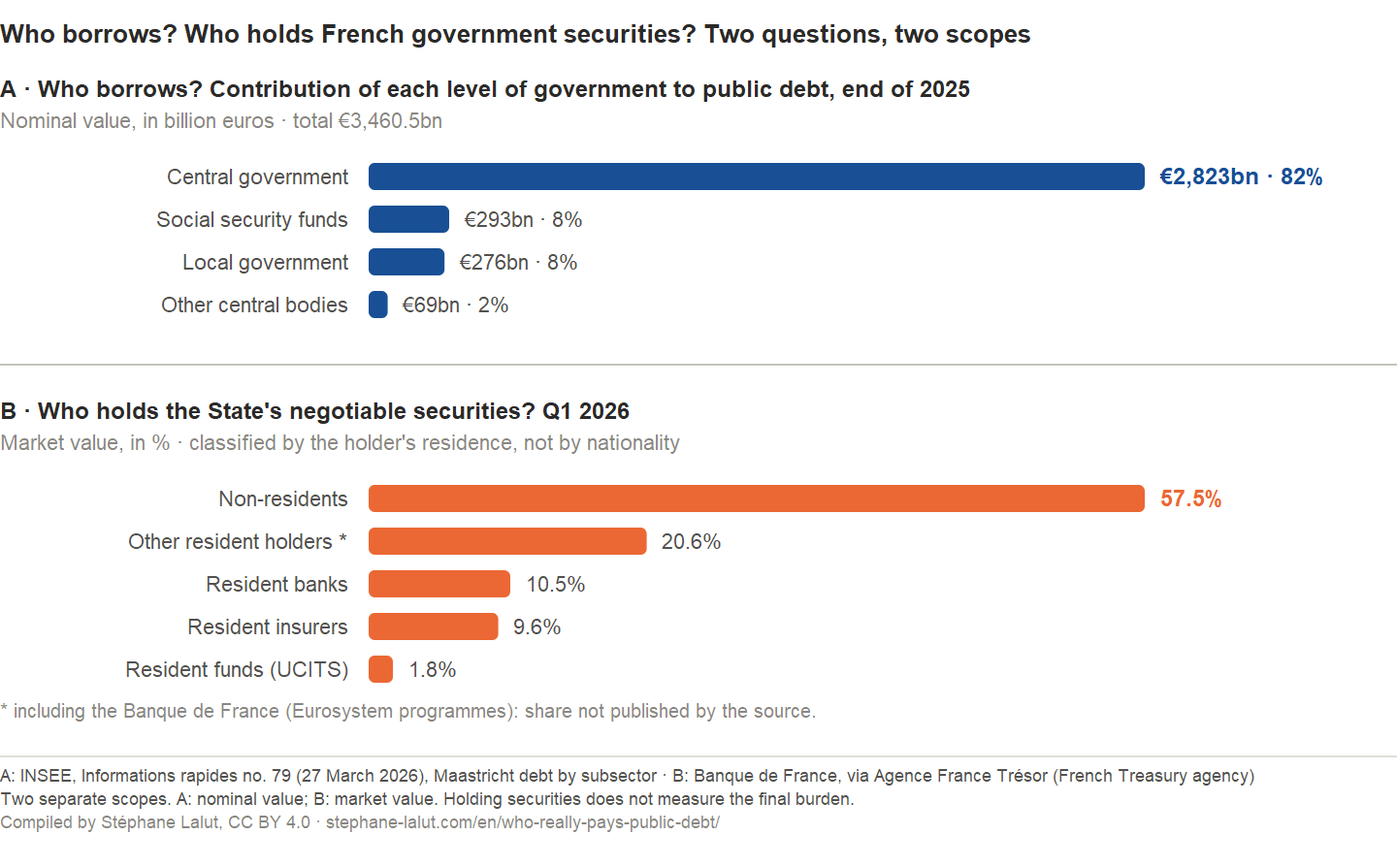
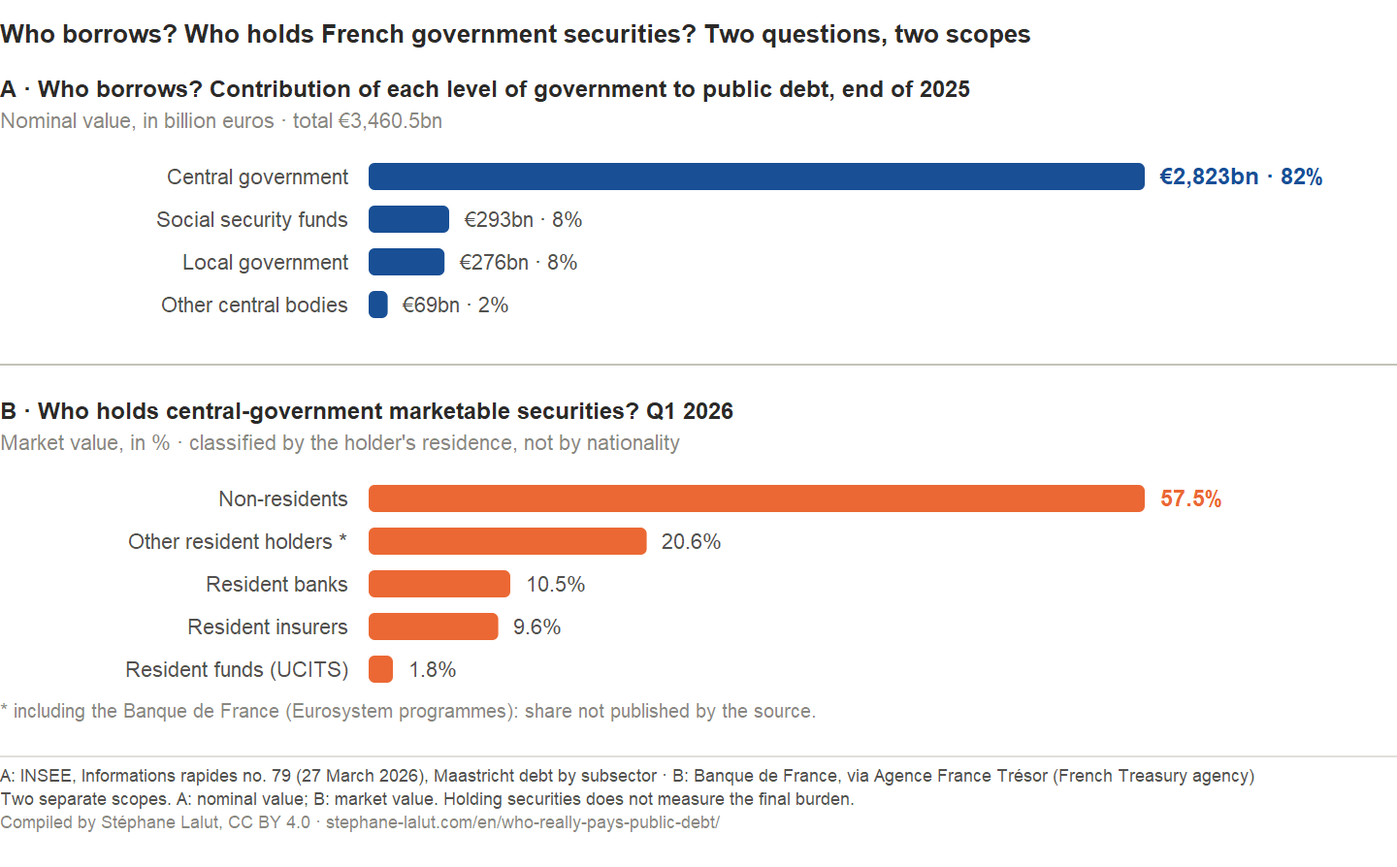
fix(dette-en): lexique anglais Wolf-07 sur qui paie et generations futures -- central-government marketable debt/securities (emetteur) et the government (acteur) au lieu de State negotiable / the State ; figure qui-paie-detention-en regeneree, donnees inchangees

Changed region(s): [[0.125, 0.453, 0.5312, 0.4832]]

diff --git a/scripts/generer_figures_qui_paie.py b/scripts/generer_figures_qui_paie.py
@@ -583,7 +583,7 @@ def svg_detention(r: dict, lang: str = "fr") -> tuple[str, int]:
                  % (y, W, y, AXIS))
     y += 28
     corps.append(txt(0, y, S("B · Qui détient les titres négociables de l'État ? 1er trimestre 2026",
-                             "B · Who holds the State's negotiable securities? Q1 2026"),
+                             "B · Who holds central-government marketable securities? Q1 2026"),
                      TY_ANNOT, INK, weight="600"))
     corps.append(txt(0, y + 16, S("Valeur de marché, en % · classement par résidence du détenteur, "
                                   "non par nationalité",
@@ -632,7 +632,7 @@ def svg_detention(r: dict, lang: str = "fr") -> tuple[str, int]:
                 "value: "
                 + "; ".join("%s €%sbn" % (libelle_en(SS_EN, s["libelle"]), en(s["mdeur"]))
                             for s in ss)
-                + ", out of €%sbn, %s. B, at market value, holders of the State's negotiable "
+                + ", out of €%sbn, %s. B, at market value, holders of central-government marketable "
                   "securities in Q1 2026: " % (en(total, 1), periode_en(r["periode_a"]))
                 + "; ".join("%s %s%%" % (noms[d["libelle"]].rstrip(" *"), en(d["pct"], 1))
                             for d in det) + ".")
@@ -1443,7 +1443,7 @@ def main() -> int:
     cartes["en"] = [
         {"id": "detention", "fichier": "qui-paie-detention-en",
          "titre": "Who borrows? Who holds French government securities?",
-         "montre": "The levels of government that borrow, then the holders of the State's "
+         "montre": "The levels of government that borrow, then the holders of central-government "
                    "securities: two separate scopes, with no proportional link.",
          "source": "INSEE, IR no. 79 (27 March 2026), %s  ·  Banque de France via Agence "
                    "France Trésor (French Treasury agency), Q1 2026" % periode_en(r["periode_a"]),

diff --git a/content/qui-paie-la-dette-publique/_index.en.md b/content/qui-paie-la-dette-publique/_index.en.md
@@ -4,7 +4,7 @@ url: /en/who-really-pays-public-debt/
 description: "Who pays for public debt? Holding it is not paying for it: taxes, spending and inflation do not spread the adjustment across the same groups. Official French data."
 chapo: "The same €{qp.exp_effort} billion adjustment does not fall on the same households depending on the decision taken: through education, it weighs mostly on the least well-off; through taxes, on the best-off. Who pays for public debt depends on what it finances, how it is financed and the adjustments chosen to service it."
 date: 2026-09-30
-lastmod: 2026-09-30
+lastmod: 2026-10-08
 donnees: [dette_officielle]
 og_title: "Who really pays for public debt? — what the data show — S. Lalut"
 og_image: "images/og-qui-paie-dette-en.jpg"
@@ -14,14 +14,14 @@ og_image_alt: "Share card: “Same adjustment, different payers” — the same 
 dataset:  # JSON-LD Dataset (partials/schema-dataset-page.html); tokens resolved at build time
   jeu: "qui_paie_donnees"
   nom: "Who pays for public debt: holdings, redistribution and exposure to the same adjustment"
-  description: "Compilation derived from official series: public debt by government subsector (INSEE) and holders of French State negotiable debt securities (Banque de France via Agence France Trésor); taxes, contributions and public transfers by standard-of-living decile and by age, distributional national accounts 2023 (INSEE); exposure of each decile to the same €{qp.exp_effort} billion adjustment under three decisions — taxes, pensions, education —, an accounting profile, not a simulation."
+  description: "Compilation derived from official series: public debt by government subsector (INSEE) and holders of French central-government marketable debt securities (Banque de France via Agence France Trésor); taxes, contributions and public transfers by standard-of-living decile and by age, distributional national accounts 2023 (INSEE); exposure of each decile to the same €{qp.exp_effort} billion adjustment under three decisions — taxes, pensions, education —, an accounting profile, not a simulation."
   couverture_temporelle: "2020/2026"
   couverture_spatiale: "France"
   variables:
     - {nom: "Taxes, contributions and public transfers by standard-of-living decile", unite: "euros per consumption unit"}
     - {nom: "Share of people who are net beneficiaries", unite: "% of people"}
     - {nom: "Exposure to the same adjustment, by decision", unite: "% of the decile's disposable income"}
-    - {nom: "Holders of French State negotiable debt securities", unite: "% at market value"}
+    - {nom: "Holders of French central-government marketable debt securities", unite: "% at market value"}
   sources:
     - "https://www.insee.fr/fr/statistiques/8974371"
     - "https://www.insee.fr/fr/statistiques/8574663"
@@ -34,13 +34,13 @@ faq:
   - question: "Is public debt a burden on future generations?"
     answer: "Not mechanically. The next generations inherit the obligations, but also what they financed — infrastructure, education, public assets — and part of the securities themselves, held directly or through French assurance-vie savings policies (life-insurance-based savings) — which does not necessarily neutralise the burden, since debt can also crowd out productive capital. The net transfer depends on the use: debt that finances current consumption with no lasting counterpart mostly passes on a cost; an investment they will benefit from can pass on more than it costs. What remains true in every case: the decision is taken without them."
   - question: "Who holds French public debt?"
-    answer: "Central government accounts for {qp.etat_pct}% of public debt ({qp.periode_a}, INSEE). For its negotiable securities, the Banque de France publishes, via Agence France Trésor, a breakdown of holders at market value: in the first quarter of 2026, {qp.nonres_pct}% were held by non-residents, {qp.bafs_pct}% by resident banks, insurers and funds, {qp.autres_fr_pct}% by other resident holders — among them the Banque de France, whose share is not published. Holders are classified by residence, not nationality, and a household can hold securities indirectly, through an assurance-vie policy or a fund. Above all, holding is not paying: the holder advanced the funds and receives the return on them; the breakdown of holders does not say who bears the final burden."
+    answer: "Central government accounts for {qp.etat_pct}% of public debt ({qp.periode_a}, INSEE). For its marketable securities, the Banque de France publishes, via Agence France Trésor, a breakdown of holders at market value: in the first quarter of 2026, {qp.nonres_pct}% were held by non-residents, {qp.bafs_pct}% by resident banks, insurers and funds, {qp.autres_fr_pct}% by other resident holders — among them the Banque de France, whose share is not published. Holders are classified by residence, not nationality, and a household can hold securities indirectly, through an assurance-vie policy or a fund. Above all, holding is not paying: the holder advanced the funds and receives the return on them; the breakdown of holders does not say who bears the final burden."
   - question: "Who receives more than they pay to general government?"
     answer: "In {qp.cd_annee}, according to INSEE's distributional national accounts, {qp.benef_ensemble}% of people received more in public transfers than they paid: {qp.benef_d1}% in the lowest standard-of-living decile, {qp.benef_d10}% in the highest. The balance tips at decile {qp.net_bascule}: the first {qp.net_benef_n} deciles are net beneficiaries, the top three net contributors, with the top decile making a net contribution of {qp.net_d10} euros per consumption unit. Two caveats: this is the balance of one year, not of a lifetime — retirement pensions count as transfers received —, and it describes all public redistribution, not the specific effect of the debt."
   - question: "Is it better to raise taxes or cut spending?"
     answer: "The data do not settle that choice; they say who would bear what. Spreading the same €{qp.exp_effort} billion adjustment in proportion to existing amounts, a cut in education spending would represent {qp.exp_ens_d1}% of the income of the poorest 10%, against {qp.exp_ens_d10}% for the richest; a rise in taxes on income and wealth does the opposite, up to {qp.exp_fisc_d10}% for the top decile. The least expected result concerns the middle of the scale: at both ends, the heaviest decision weighs at least {qp.exp_ecart_d10} times the lightest, but in {qp.exp_creux_zone} that ratio falls to {qp.exp_ecart_creux} — this is where the lever chosen makes the least difference between households. This trough lies in {qp.exp_creux_millesimes} across the four vintages {qp.exp_millesimes} published by INSEE, and it does not depend on how the gap is measured. It is an accounting profile, not a forecast: neither behaviour nor feedback effects enter it, and a public service valued in euros is not cash income."
   - question: "Should public debt be repaid?"
-    answer: "Each security that matures is repaid, but the debt as a whole is refinanced: the State issues new securities to repay the old ones, and the stock evolves with the deficit. Repaying the whole stock is therefore a largely theoretical hypothesis. The operative question is what happens while the debt is continuously rolled over: who bears the interest, which budgets carry the adjustments, who inherits the obligations and what they financed. Refinancing renews a maturity on the terms of the day: it can lighten or increase the burden, and on its own it does not identify who will bear it."
+    answer: "Each security that matures is repaid, but the debt as a whole is refinanced: the government issues new securities to repay the old ones, and the stock evolves with the deficit. Repaying the whole stock is therefore a largely theoretical hypothesis. The operative question is what happens while the debt is continuously rolled over: who bears the interest, which budgets carry the adjustments, who inherits the obligations and what they financed. Refinancing renews a maturity on the terms of the day: it can lighten or increase the burden, and on its own it does not identify who will bear it."
 ressource:  # index /ressources/ (layouts/ressources/list.html)
   bloc: "dette"
   rang: 20
@@ -88,9 +88,9 @@ Three limits frame this reading. A public service valued in euros is not income:
 
 ## Four roles not to be confused
 
-The debate often mixes up four roles. The **borrower** is the public body that issues the debt — first the State, then social security and local authorities. The **creditor** advances the funds and receives interest in return. The **beneficiary** benefits from what the borrowing financed: a road, a school, income support during a crisis. Whoever **bears a cost** suffers, relative to the alternative considered, a loss of income, wealth or services linked to financing or adjustment choices: the taxpayer who pays an additional tax, the user of a service whose resources tighten, the saver whose investment is eroded by inflation.
+The debate often mixes up four roles. The **borrower** is the public body that issues the debt — first central government, then social security and local authorities. The **creditor** advances the funds and receives interest in return. The **beneficiary** benefits from what the borrowing financed: a road, a school, income support during a crisis. Whoever **bears a cost** suffers, relative to the alternative considered, a loss of income, wealth or services linked to financing or adjustment choices: the taxpayer who pays an additional tax, the user of a service whose resources tighten, the saver whose investment is eroded by inflation.
 
-The same person often holds several of these roles: they pay taxes, are treated in a public hospital and hold State securities through French assurance-vie savings policies (life-insurance-based savings). The groups examined below therefore overlap; they do not share out the debt like slices of a cake.
+The same person often holds several of these roles: they pay taxes, are treated in a public hospital and hold government securities through French assurance-vie savings policies (life-insurance-based savings). The groups examined below therefore overlap; they do not share out the debt like slices of a cake.
 
 One question remains that every answer must name: "who pays" — compared with what other decision? Borrowing less would have meant raising a tax, giving up a spending item or postponing it. Attributing a loss requires saying which alternative it is being compared with.
 
@@ -98,11 +98,11 @@ One question remains that every answer must name: "who pays" — compared with w
 
 Three things can be measured: who borrows, who holds the securities, and who contributes or receives today.
 
-{{< figure-svg fichier="qui-paie-detention-en" alt="Two separate panels of horizontal bars. Above, public debt by borrowing government subsector, at nominal value: the State far ahead. Below, holders of the State's negotiable securities, at market value: non-residents ahead." >}}Two distinct scopes: A at nominal value (INSEE), B at market value (Banque de France, via Agence France Trésor). The values come from the same register as the figure on p. 101 of the book.{{< /figure-svg >}}
+{{< figure-svg fichier="qui-paie-detention-en" alt="Two separate panels of horizontal bars. Above, public debt by borrowing government subsector, at nominal value: central government far ahead. Below, holders of central-government marketable securities, at market value: non-residents ahead." >}}Two distinct scopes: A at nominal value (INSEE), B at market value (Banque de France, via Agence France Trésor). The values come from the same register as the figure on p. 101 of the book.{{< /figure-svg >}}
 
 {{< fig-actions id="detention" >}}
 
-**Who borrows, who holds.** Central government accounts for most of the public debt: {{< qp-val "etat_mdeur" >}} billion euros out of {{< qp-val "total_mdeur" >}}, or {{< qp-val "etat_pct" >}}% ({{< qp-val "periode_a" >}}). Its negotiable securities are held, in the first quarter of 2026, {{< qp-val "nonres_pct" >}}% by non-residents; resident banks, insurers and funds together hold {{< qp-val "bafs_pct" >}}%; the other resident holders, {{< qp-val "autres_fr_pct" >}}%, include the Banque de France, whose share the source does not publish. The two panels cannot be combined: the first is at nominal value, the second at market value, and neither says who bears the burden.
+**Who borrows, who holds.** Central government accounts for most of the public debt: {{< qp-val "etat_mdeur" >}} billion euros out of {{< qp-val "total_mdeur" >}}, or {{< qp-val "etat_pct" >}}% ({{< qp-val "periode_a" >}}). Its marketable securities are held, in the first quarter of 2026, {{< qp-val "nonres_pct" >}}% by non-residents; resident banks, insurers and funds together hold {{< qp-val "bafs_pct" >}}%; the other resident holders, {{< qp-val "autres_fr_pct" >}}%, include the Banque de France, whose share the source does not publish. The two panels cannot be combined: the first is at nominal value, the second at market value, and neither says who bears the burden.
 
 {{< figure-svg fichier="qui-paie-redistribution-en" alt="Bars by standard-of-living decile, in 2023. Above zero, transfers received, at a similar level from one decile to the next; below zero, taxes and contributions, which rise steeply from the first to the top decile." >}}INSEE, distributional national accounts 2023 (*Insee Analyses* no. 118, 16 April 2026, figure 1c), in euros per consumption unit.{{< /figure-svg >}}
 
@@ -162,7 +162,7 @@ Four mechanisms can change the burden of the debt and how it is distributed, and
 - **taxes and contributions** — additional taxes and contributions, or tax cuts that are forgone;
 - **spending and benefits** — what is cut, frozen or postponed to free up room;
 - **inflation**, and more precisely the part of inflation **not anticipated when a security's rate was set**: what was expected at that date tends to be already built into the rate required at issuance, and then transfers nothing. It is the gap between realised inflation and that expectation that reduces the real value of nominal claims already issued, and shifts part of the burden onto their holders and onto poorly indexed incomes. Two mechanisms work in the opposite direction: the cost of index-linked securities rises with prices, and refinancing takes place at the new rates. The net effect therefore depends on the indexed share, on the refinancing calendar and on what was anticipated — and France does not choose its inflation on its own. Not to be confused with the effect of inflation on the debt *ratio*, which runs through nominal GDP and does not, for its part, designate any loser;
-- **restructuring**, the extreme case: the **first-round** loss is imposed on the holders of the securities. Where it stops is another question — a bank, an insurer or a fund passes it on to its shareholders, policyholders or savers, and the State may have to step in. Here as elsewhere, the holder is not necessarily the one who bears the cost.
+- **restructuring**, the extreme case: the **first-round** loss is imposed on the holders of the securities. Where it stops is another question — a bank, an insurer or a fund passes it on to its shareholders, policyholders or savers, and the government may have to step in. Here as elsewhere, the holder is not necessarily the one who bears the cost.
 
 The list is not exhaustive: growth, asset income or sales and financing conditions also play a part — an asset sale finances a payment by reducing wealth, growth improves the ratio without levying anything on any group —, and history also provides examples of financial repression, which constrains returns. Refinancing, for its part, renews a maturity on the terms of the day: it can lighten or increase the burden, and on its own it does not identify who will bear it. And against these costs stands what the debt financed: the benefits, present and future, of public spending belong in the balance sheet just as much as the burden.
 
@@ -186,7 +186,7 @@ Not all taxpayers are equal in the face of an adjustment. Households and firms t
 
 <details class="repli"><summary>To test it: groups defined independently of the result, a specified adjustment, a chosen measure of effort — and the cases that would weaken it, which cannot be reread afterwards as confirmations</summary>
 
-To test it, these groups must be defined independently of the result, the adjustment studied must be specified — a given tax reform, a given benefit freeze — and a measure of effort chosen. It would be weakened by an adjustment falling mainly on other groups, or by compensation granted to the losers identified; such cases cannot be reread after the fact as confirmations. The territorial channel — the State shifting part of its constraint onto local authorities — is examined on the page [Public debt: why are local authorities the adjustment variable?](/en/local-government-debt/).
+To test it, these groups must be defined independently of the result, the adjustment studied must be specified — a given tax reform, a given benefit freeze — and a measure of effort chosen. It would be weakened by an adjustment falling mainly on other groups, or by compensation granted to the losers identified; such cases cannot be reread after the fact as confirmations. The territorial channel — central government shifting part of its constraint onto local authorities — is examined on the page [Public debt: why are local authorities the adjustment variable?](/en/local-government-debt/).
 
 </details>
 
@@ -196,7 +196,7 @@ To test it, these groups must be defined independently of the result, the adjust
 
 <details class="repli"><summary>Holders classified by residence, not nationality, and captured as a stock: the breakdown does not measure the share of interest paid outside France</summary>
 
-For the State's negotiable securities, the breakdown of holders is published by the Banque de France, via Agence France Trésor, at market value. It classifies holders by **residence**, not nationality: a "non-resident" may be a foreign fund managing the savings of French households, and a French household may hold State securities without knowing it, through its assurance-vie policy. Nor does a share of the stock held outside France measure the share of interest paid outside France: an end-of-period snapshot does not give an annual flow.
+For central-government marketable securities, the breakdown of holders is published by the Banque de France, via Agence France Trésor, at market value. It classifies holders by **residence**, not nationality: a "non-resident" may be a foreign fund managing the savings of French households, and a French household may hold government securities without knowing it, through its assurance-vie policy. Nor does a share of the stock held outside France measure the share of interest paid outside France: an end-of-period snapshot does not give an annual flow.
 
 </details>
 
@@ -224,7 +224,7 @@ What can be established is the effect of a specific decision — a reform, a fre
 {{< confrontation-recherche verifie="2026-09-30" publie="oui" resume="the direction of the spending/tax contrast is found again in consolidations actually observed; the inherited-claim argument is challenged by the crowding-out of capital" >}}
 **Measured here.** An accounting profile: the same €{{< qp-val "exp_effort" >}} billion adjustment distributed in proportion to what each decile already pays or receives, according to INSEE, with no behaviour or feedback effects. The literature tests the readings drawn from it, not the profile itself.
 
-**Consistent with.** The direction of the contrast between spending and taxes: in fiscal consolidations actually observed in 18 industrialised countries, France included, from 1978 to 2009, net income inequality rises; spending cuts appear unfavourable, tax rises equalising, although the latter effect is not significant in the baseline specification (Agnello and Sousa). The postponement of investment: in Breunig and Busemeyer's sample, a heavier interest burden goes with a decline in the share of public investment in favour of pensions, postponing an investment being politically less costly than cutting an entitlement. The role of use: in Diamond's model, borrowing to acquire physical capital makes the State a mere intermediary between savers and entrepreneurs, with no effect.
+**Consistent with.** The direction of the contrast between spending and taxes: in fiscal consolidations actually observed in 18 industrialised countries, France included, from 1978 to 2009, net income inequality rises; spending cuts appear unfavourable, tax rises equalising, although the latter effect is not significant in the baseline specification (Agnello and Sousa). The postponement of investment: in Breunig and Busemeyer's sample, a heavier interest burden goes with a decline in the share of public investment in favour of pensions, postponing an investment being politically less costly than cutting an entitlement. The role of use: in Diamond's model, borrowing to acquire physical capital makes the government a mere intermediary between savers and entrepreneurs, with no effect.
 
 **Challenged by.** Any reading in which the inherited claim would neutralise the burden: in the efficient case of Diamond's model, where the interest rate exceeds population growth, domestically held debt lowers long-run welfare **more** than external debt, because it takes the place of productive capital in people's wealth. Barro, who defends the opposite view, bases it on voluntary transfers between parents and children, operative for most people, and acknowledges that in 1989 most economists still leaned towards the standard models. The magnitude: in Agnello and Sousa's breakdown, it is the largest tax rises that are associated with a significant fall in inequality, and the effects tend to disappear within two years. The "tax" curve read as final incidence: in 55,082 firms in nine European countries, from 1996 to 2003, about half of a rise in corporate income tax falls in the long run on wages (Arulampalam, Devereux and Maffini) — a different tax from the one on this page, but the same gap between legal and final incidence.
 
@@ -251,7 +251,7 @@ What can be established is the effect of a specific decision — a reform, a fre
 
 <div class="prolongements" role="group" aria-label="Further reading in this dossier">
 <p class="prolongements__titre">Further reading in this dossier: two applications of "who pays?"</p>
-<a class="prolongements__carte" href="/en/local-government-debt/"><b>Local authorities</b><span>How a constraint on the State can pass down to local authorities that carry little debt but are tightly regulated.</span></a>
+<a class="prolongements__carte" href="/en/local-government-debt/"><b>Local authorities</b><span>How a constraint on central government can pass down to local authorities that carry little debt but are tightly regulated.</span></a>
 <a class="prolongements__carte" href="/en/public-debt-future-generations/"><b>Future generations</b><span>When does debt really amount to a transfer to those who come after?</span></a>
 </div>
 
@@ -272,5 +272,5 @@ This page sets out the method: four roles, four channels, and what would need to
 Applied to public finances, this hypothesis is formalised in the working paper [AWP-03 — *Public debt and anthropy: who really pays for disorder?*](/en/awp/awp-03/) (DOI: 10.5281/zenodo.19434094, open-access PDF). The working paper [AWP-09](/en/awp/awp-09/) tests this reading against public accounts: the incidence of the same fiscal effort depends on the instrument chosen, but the asymmetry between mobile and captive households lies beyond what the accounts can test, since they do not observe the former escaping.
 
 {{< reutiliser figures="figures_qui_paie" jeu="qui_paie_donnees" sources="INSEE and Banque de France via Agence France Trésor" donnees="Holdings of public debt (the book's register, sources INSEE and Banque de France) and INSEE's 2023 distributional national accounts, with their periods, units and conventions." >}}
-How the effects of public debt are distributed depends on what it finances, how it is financed and the adjustments chosen to service it; some configurations may shift costs onto groups less able to avoid them. The available data show who borrows, who holds the State's securities and who contributes or receives today — not who will bear the final burden. A loss can only be attributed to a specific decision, compared with its alternative.
+How the effects of public debt are distributed depends on what it finances, how it is financed and the adjustments chosen to service it; some configurations may shift costs onto groups less able to avoid them. The available data show who borrows, who holds central-government securities and who contributes or receives today — not who will bear the final burden. A loss can only be attributed to a specific decision, compared with its alternative.
 {{< /reutiliser >}}

diff --git a/content/dette-publique-generations-futures/_index.en.md b/content/dette-publique-generations-futures/_index.en.md
@@ -4,7 +4,7 @@ url: /en/public-debt-future-generations/
 description: "Since {gen.a0}, only {gen.part_k}% of French public deficits have corresponded, in the accounts, to a net increase in recorded public assets, and {gen.nr_fin}% of the debt is held outside France. According to the European Commission, the effort the debt leaves behind stems from the current budgetary position far more than from ageing. Eurostat and ECB series recalculated and checked."
 chapo: "Two arguments lighten the weight of debt for those who come after; the accounts do not support them for France. On the scope of recorded assets, only {gen.part_k}% of deficits have corresponded since {gen.a0} to a net increase in public assets; and {gen.nr_fin}% of the debt is now held outside the country. The third, which places the real burden in pensions, holds up no better: according to the European Commission's indicator, the effort that would stabilise the debt stems from the current budgetary position far more than from ageing."
 date: 2026-07-24
-lastmod: 2026-10-07
+lastmod: 2026-10-08
 og_title: "Is public debt a burden on future generations? — S. Lalut"
 og_image: "images/og-dette-generations-en.jpg"
 og_image_alt: "Share card: “Deficits for current spending” — France, share of public deficits that corresponded, in the accounts, to assets, by decade, and the rest to uncovered current spending."
@@ -15,7 +15,7 @@ donnees: [dette_generations]
 dataset:  # JSON-LD Dataset (partials/schema-dataset-page.html); tokens resolved at build time
   jeu: "dette_generations"
   nom: "Public debt and future generations: uses of net borrowing, net worth, debt holdings and the S2 indicator, France and European Union"
-  description: "Compilation derived automatically from official sources: uses of general government net borrowing (net dissaving, net acquisitions of non-financial assets, capital transfers), France from {gen.a0} to {gen.fin} and the 27 EU countries from {gen.cp_a0} to {gen.fin} (Eurostat); general government net worth ({gen.s0}-{gen.s1}); debt by holding sector ({gen.h0}-{gen.h_fin}, ECB; negotiable State debt, Banque de France); the European Commission's S2 indicator ({gen.dsm_lib}); pension spending projected by the COR. Ratios checked against those published by Eurostat."
+  description: "Compilation derived automatically from official sources: uses of general government net borrowing (net dissaving, net acquisitions of non-financial assets, capital transfers), France from {gen.a0} to {gen.fin} and the 27 EU countries from {gen.cp_a0} to {gen.fin} (Eurostat); general government net worth ({gen.s0}-{gen.s1}); debt by holding sector ({gen.h0}-{gen.h_fin}, ECB; central-government marketable debt, Banque de France); the European Commission's S2 indicator ({gen.dsm_lib}); pension spending projected by the COR. Ratios checked against those published by Eurostat."
   couverture_temporelle: "{gen.h0}/{gen.fin}"
   couverture_spatiale: "France; European Union (27 countries)"
   variables:
@@ -101,7 +101,7 @@ Abba Lerner’s classic argument assumes that the debt is held within the countr
 
 In {{< gen-val "h0" >}}, {{< gen-val "nr0" >}}% of general government debt was held by non-residents. The share passed one half in {{< gen-val "nr_maj_premiere" >}}, stayed above it in {{< gen-val "nr_maj_n" >}} years out of {{< gen-val "nr_maj_tot" >}} since, and peaked at {{< gen-val "nr_max" >}}% in {{< gen-val "nr_max_annee" >}}. The Banque de France then became a major holder, through the Eurosystem’s public-sector purchase programmes: {{< gen-val "bc0" >}}% of the debt in {{< gen-val "h0" >}}, {{< gen-val "bc_max" >}}% in {{< gen-val "bc_max_annee" >}}. Since then, its holdings have been receding — {{< gen-val "bc_fin" >}}% in {{< gen-val "h_fin" >}}, {{< gen-val "bc_var" >}} points less — and the non-resident share has risen by {{< gen-val "nr_var_bc" >}} points, to {{< gen-val "nr_fin" >}}%. Since {{< gen-val "bc10_premiere" >}}, the Banque de France has held more than a tenth of the debt, and the growth of its holdings has offset the decline in the share of other residents: they held {{< gen-val "ar_avant" >}}% of it in {{< gen-val "an_avant" >}}, and hold only {{< gen-val "ar_fin" >}}% in {{< gen-val "h_fin" >}}.
 
-The Banque de France publishes the same measure on another scope, the one followed by Agence France Trésor, the French debt management office: the State’s negotiable securities alone, at market value. At end-{{< gen-val "h_fin" >}}, {{< gen-val "etat_fin" >}}% of these securities were held by non-residents, against {{< gen-val "etat_0" >}}% at end-{{< gen-val "etat_a0" >}}; the share peaked at {{< gen-val "etat_max" >}}% in {{< gen-val "etat_max_annee" >}}, fell back to {{< gen-val "etat_min" >}}% in {{< gen-val "etat_min_annee" >}}, at the height of central bank purchases, and has been rising since: {{< gen-val "etat_der" >}}% in the {{< gen-val "etat_der_trim" >}}, the latest observation published by Agence France Trésor based on Banque de France data. Despite their different scopes and valuations, the two series converge on three facts: a non-resident majority today, a trough at the time of central bank purchases, a rise since.
+The Banque de France publishes the same measure on another scope, the one followed by Agence France Trésor, the French debt management office: central-government marketable securities alone, at market value. At end-{{< gen-val "h_fin" >}}, {{< gen-val "etat_fin" >}}% of these securities were held by non-residents, against {{< gen-val "etat_0" >}}% at end-{{< gen-val "etat_a0" >}}; the share peaked at {{< gen-val "etat_max" >}}% in {{< gen-val "etat_max_annee" >}}, fell back to {{< gen-val "etat_min" >}}% in {{< gen-val "etat_min_annee" >}}, at the height of central bank purchases, and has been rising since: {{< gen-val "etat_der" >}}% in the {{< gen-val "etat_der_trim" >}}, the latest observation published by Agence France Trésor based on Banque de France data. Despite their different scopes and valuations, the two series converge on three facts: a non-resident majority today, a trough at the time of central bank purchases, a rise since.
 
 The residence counted here is that of the registered holder — a fund, a custodian — not that of the final saver: a foreign fund may manage the savings of French households, and vice versa. Above all, the share held within the country is not neutral for all that: servicing it involves payments, funded from public resources, to those who hold the securities; these series do not say who ultimately bears or receives the net charge. Elsewhere, Lerner’s premise holds better than in France, in Italy ({{< gen-val "h_it" >}}% of debt held by non-residents in {{< gen-val "h_fin" >}}) or in Sweden ({{< gen-val "h_se" >}}%); it holds less in Austria ({{< gen-val "h_at" >}}%) or Belgium ({{< gen-val "h_be" >}}%).
 
@@ -129,7 +129,7 @@ The deficit the COR projects for the pension system, {{< gen-val "cor_solde1" >}
 - **What current spending produced.** The national accounts do not count education, health or non-capitalised research as assets: part of current spending leaves the following generations a human capital that these series do not see. The page assesses the argument on the scope of recorded assets, not the value of all spending.
 - **The burden between generations.** The accounting composition of deficits is not, on its own, a measure of what each generation pays and receives over its lifetime: that is the subject of generational accounting, which these series do not construct.
 - **Causality.** The uses of net borrowing say what deficits corresponded to in the accounts, not why they existed, nor what would have happened without them.
-- **The final holder.** Residence is that of the registered holder, not that of the final saver. The general government series is at nominal value, the series for the State’s negotiable securities at market value: their levels cannot be compared point by point.
+- **The final holder.** Residence is that of the registered holder, not that of the final saver. The general government series is at nominal value, the series for central-government marketable securities at market value: their levels cannot be compared point by point.
 - **The future.** S2 and the COR projections are scenarios conditional on their assumptions (demography, productivity, legislation), produced by two institutions with different mandates; they cannot be validated by observation.
 - **Distribution within a generation.** None of these series says who, within the same generation, pays and receives: that is the subject of [Who really pays for public debt?](/en/who-really-pays-public-debt/)
 
@@ -144,7 +144,7 @@ The working paper [AWP-09](/en/awp/awp-09/) gives the verdict of these accounts 
 {{< confrontation-recherche verifie="2026-10-03" publie="oui" resume="the use criterion and the decline in investment are found again; reading resident holding as an absence of burden, or the composition of deficits as a measure of the burden between generations, is challenged" >}}
 **Measured here.** The uses of French and European general government net borrowing, general government net worth, debt holdings by sector, on Eurostat and ECB series; the breakdown of the S2 indicator, taken from the Commission. None of the texts read calculates these quantities on these sources and these periods: they are validated by reproduction.
 
-**Consistent with.** The use criterion: in Diamond’s model, issuing debt to acquire public capital makes the State a mere intermediary between savers and entrepreneurs, with no short-run or long-run effect. The decline in the share invested: in 21 OECD countries, including France, from 1979 to 2003, a heavier interest burden goes together, five years later, with a lower share of public investment and a higher share of pensions, postponing an investment costing less, politically, than cutting an entitlement (Breunig and Busemeyer). These are associations in a panel, over another period: they do not say why the share invested has fallen in France since. The approach of the S2 indicator, finally, is the one called for by Auerbach, Gokhale and Kotlikoff: starting from the government’s budget constraint over a long horizon and from age-related spending, rather than from a single year’s deficit.
+**Consistent with.** The use criterion: in Diamond’s model, issuing debt to acquire public capital makes the government a mere intermediary between savers and entrepreneurs, with no short-run or long-run effect. The decline in the share invested: in 21 OECD countries, including France, from 1979 to 2003, a heavier interest burden goes together, five years later, with a lower share of public investment and a higher share of pensions, postponing an investment costing less, politically, than cutting an entitlement (Breunig and Busemeyer). These are associations in a panel, over another period: they do not say why the share invested has fallen in France since. The approach of the S2 indicator, finally, is the one called for by Auerbach, Gokhale and Kotlikoff: starting from the government’s budget constraint over a long horizon and from age-related spending, rather than from a single year’s deficit.
 
 **Challenged by.** Any reading of the breakdown of deficits as a measure of the burden between generations. For Auerbach, Gokhale and Kotlikoff, the measured deficit has, in theory, no necessary relationship with the stance of fiscal policy between generations: it depends on how revenue and spending are labelled. They replace it with generational accounts, which estimate what each generation pays and receives over the rest of its life; for the United States in 1989, under unchanged policy, they found a net burden about 20% heavier for future generations than for newborns. Hence the page’s limit: its breakdown gives the accounting composition of deficits, not the burden on each generation. Any reading, too, according to which only the share held by non-residents would weigh on the following generations. In the efficient case of Diamond’s model, where the interest rate exceeds population growth, internal debt lowers long-run welfare **more** than external debt, because it takes the place of productive capital in wealth holdings. In Blanchard, even a debt rolled over without ever raising taxes reduces capital accumulation; in the case he regards as most representative, welfare rises for the first generation and generally falls afterwards, calculations he himself describes as too rudimentary for an estimate. Barro argues the opposite: altruistic parents would offset the burden through their voluntary transfers, provided these transfers are operative for most people; he acknowledges that in 1989 most economists leaned towards the models in which debt weighs.
 
@@ -193,7 +193,7 @@ This page documents three dimensions of French debt: what deficits corresponded 
 
 **Net worth.** Non-financial assets of general government, produced and non-produced (`nama_10_nfa_bs`, N1N and N2N, current prices), of which land (N211N), and consolidated net financial worth (`nasa_10_f_bs`, BF90), relative to GDP. Asset stocks are valued at current prices: their changes mix flows and revaluations.
 
-**Holdings.** ECB, government finance statistics (GFS): Maastricht debt of general government by counterpart area (rest of the world, residents) and holding sector (central bank). Checks: non-residents and residents add up to total debt each year; over the common years, the values equal those of Eurostat (`gov_10dd_ggd`), transmitted by the same reporting institution. Scope witness: {{< gen-val "etat_lib" >}}, on Webstat (share of the State’s negotiable securities held by non-residents, at market value, end of quarter; file from the series’ public page, latest observation published on {{< gen-val "etat_maj" >}}, archived with its hash); latest observation: chart from Agence France Trésor (source Banque de France), read on {{< gen-val "etat_der_lu" >}} with the image’s hash, and checked against Webstat over the common period. The script stops if the two series cease to converge, or if Webstat publishes a period that the reading no longer goes beyond.
+**Holdings.** ECB, government finance statistics (GFS): Maastricht debt of general government by counterpart area (rest of the world, residents) and holding sector (central bank). Checks: non-residents and residents add up to total debt each year; over the common years, the values equal those of Eurostat (`gov_10dd_ggd`), transmitted by the same reporting institution. Scope witness: {{< gen-val "etat_lib" >}}, on Webstat (share of central-government marketable securities held by non-residents, at market value, end of quarter; file from the series’ public page, latest observation published on {{< gen-val "etat_maj" >}}, archived with its hash); latest observation: chart from Agence France Trésor (source Banque de France), read on {{< gen-val "etat_der_lu" >}} with the image’s hash, and checked against Webstat over the common period. The script stops if the two series cease to converge, or if Webstat publishes a period that the reading no longer goes beyond.
 
 **S2 indicator.** European Commission, *{{< gen-val "dsm_lib" >}}*, country tables (file of the edition, archived with its hash): the components used are those of the spreadsheet; table 3.2 of the report prints the initial position as the difference between S2 and the cost of ageing, hence {{< gen-val "ibp_pdf" >}} instead of {{< gen-val "ibp" >}} for France. **Pensions.** COR, {{< gen-val "cor_lib" >}}, data from the summary, baseline scenario; Agirc-Arrco indexation rule: part 1, chapter 2 of the report. The illustrative substitution of the COR path for the Commission’s “pensions” component is a calculation by the author, outside the S2 method.
 

diff --git a/PROJECT_STATUS.md b/PROJECT_STATUS.md
@@ -52,6 +52,13 @@ complète fonctionne sans attendre le prochain push naturel ou le 1er du mois.
 
 ## 0. Log chronologique
 
+### 2026-10-08 — Lexique anglais Wolf-07 porté sur « qui paie » et « générations futures » (EN)
+
+- *central-government marketable debt/securities* (émetteur) et *the government* (acteur) au lieu de *State negotiable* /
+  *the State* : `qui-paie` (15), `generations-futures` (5) ; figure `qui-paie-detention-en` régénérée (panneau B, fiche),
+  données inchangées. Contrôles : hugo 0, `check-all --ci` 0, `audit-liens-build` 0. Hors champ, déclaré : « the State »
+  acteur ou budget sur coût, collectivités, peut-elle baisser, UE (non visé par la relecture).
+
 ### 2026-10-08 — Page inflation et dette : passe linguistique anglaise (Wolf-07), équilibre FR / EN ; NON POUSSÉE
 
 - **`/en/inflation-and-french-public-debt/`** : relecture externe de l'anglais (Wolf-07), arbitrage
